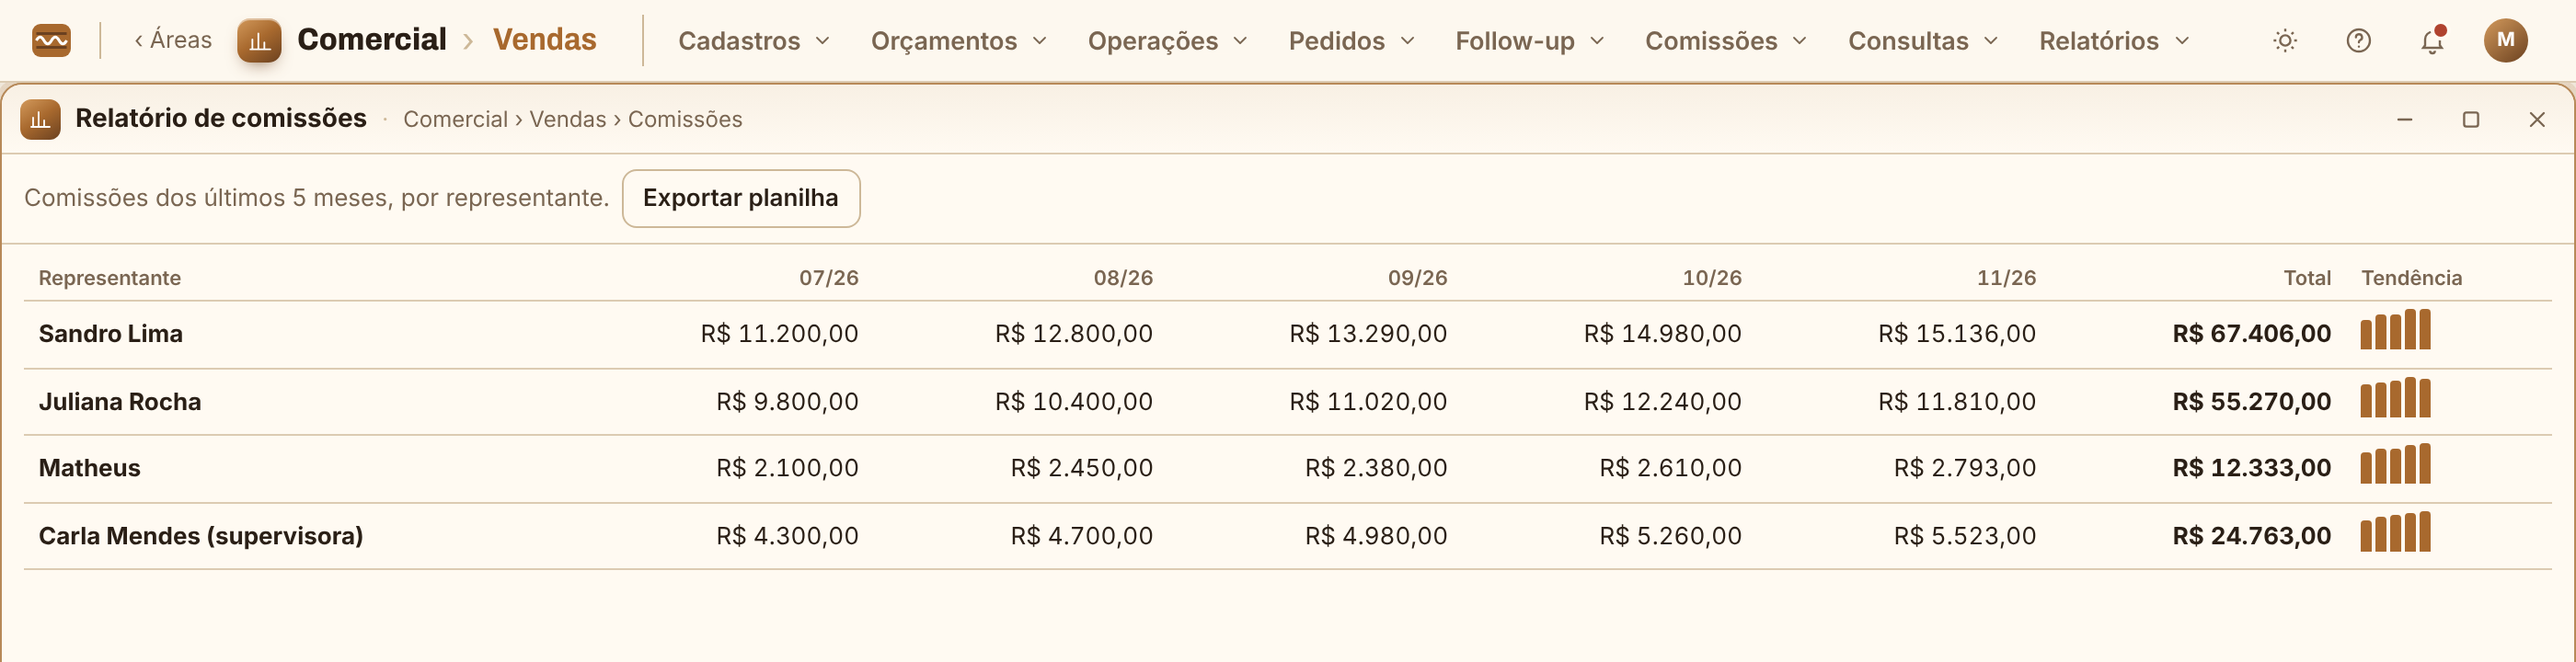
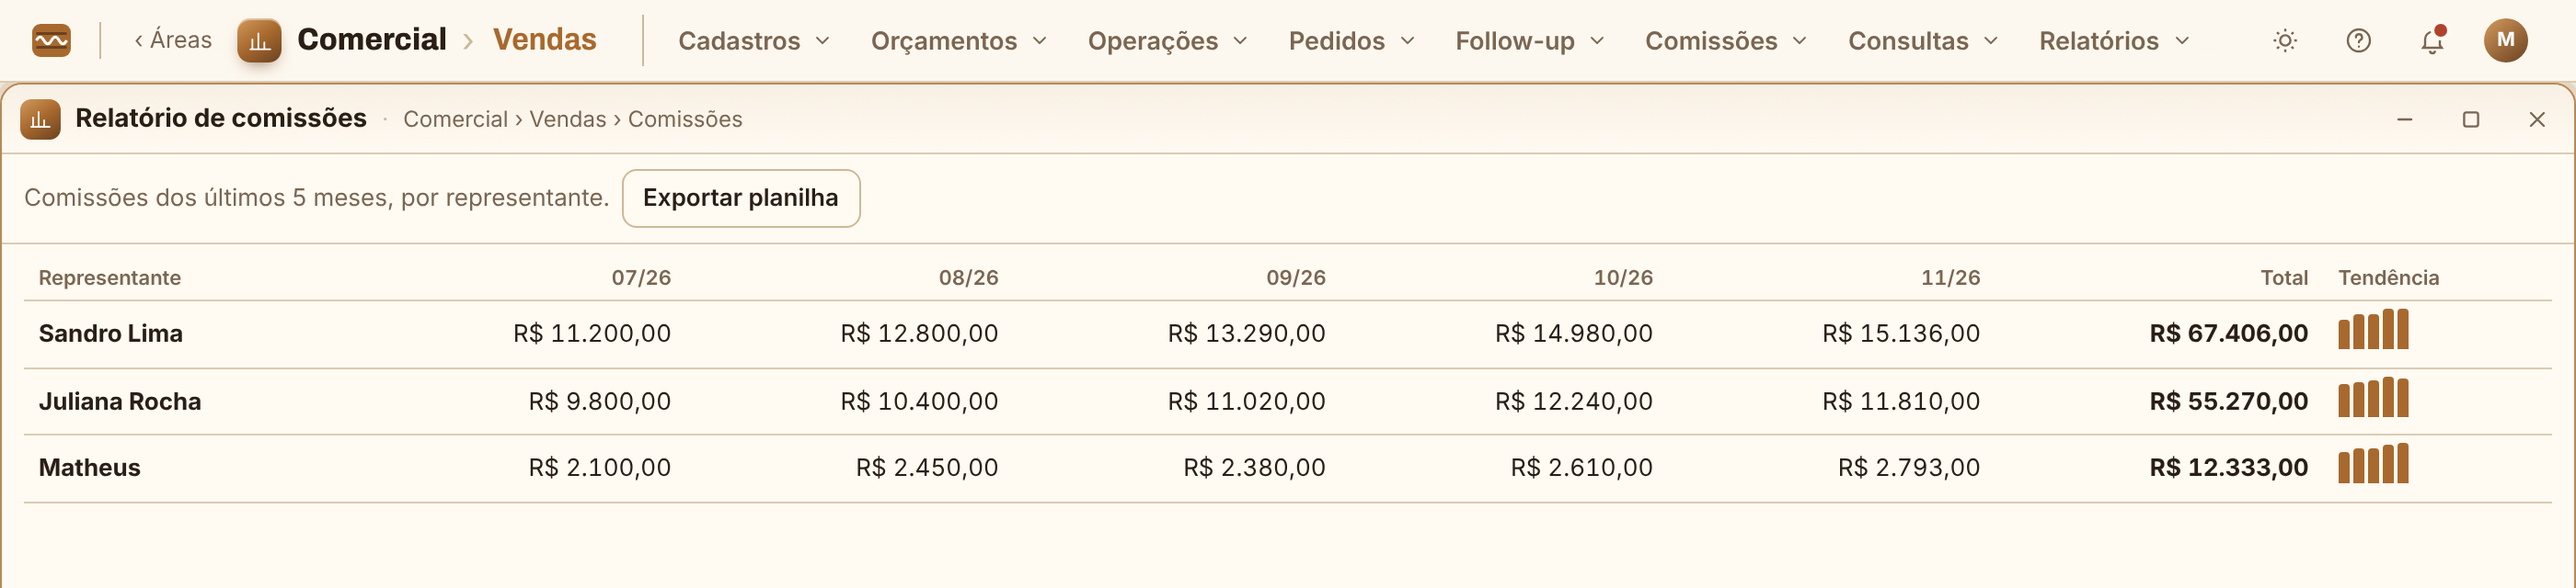
Comissões: supervisão não ganha percentual
Claude-Session: https://claude.ai/code/session_015kL8p4eCaL1huCADCSMStj

diff --git a/prototipo/tela-inicial-e-comercial.html b/prototipo/tela-inicial-e-comercial.html
@@ -2559,7 +2559,7 @@ const TOPICOS = {
     /* Comissões: 7 itens do sistema atual viraram 4. Fica em Vendas (pessoal interno),
        não na área Representantes (que é onde os próprios representantes trabalham). */
     { nome:'Comissões', itens:[
-      { ic:'percent', t:'Regras de comissão', d:'Quanto ganha cada representante e supervisor, inclusive por produto', tela:'comRegras' },
+      { ic:'percent', t:'Regras de comissão', d:'Quanto ganha cada representante, inclusive por cliente e produto', tela:'comRegras' },
       { ic:'doc', t:'Notas de crédito de comissão', d:'Emitir e desfazer notas de crédito', tela:'comNotas' },
       { ic:'cifrao', t:'Acerto de comissões', d:'Fechamento das comissões do período', tela:'comAcerto' },
       { ic:'grafico', t:'Relatório de comissões', d:'Comissões por representante e vendedor', tela:'comRelatorio' },
@@ -3556,14 +3556,12 @@ const REGRAS = [
   { quem:'Juliana Rocha', aplica:'Cliente: Serra Azul', pct:3, base:'Valor sem IPI', quando:'No faturamento', vig:'06/2026 →', exc:true },
   { quem:'Matheus', aplica:'Todos os clientes e produtos', pct:1.5, base:'Valor sem IPI', quando:'No faturamento', vig:'01/2026 →' },
   { quem:'Todos', aplica:'Produto: Chapa divisória', pct:2, base:'Valor sem IPI', quando:'No faturamento', vig:'01/2026 →', exc:true },
-  { quem:'Carla Mendes (supervisora)', aplica:'Sobre a equipe dela', pct:0.8, base:'Valor sem IPI', quando:'No faturamento', vig:'01/2026 →', sup:true },
 ];
 const ACERTO = {
   '2026-11': [
     { rep:'Sandro Lima', fat:412300, rec:388900, com:15556, aj:-420, sit:'conferido', det:[ ['NF 88430','Horizonte','14/11',38900,1556], ['NF 88411','Vale Verde','10/11',0,0], ['Título 88102','Horizonte','05/11',51200,2048] ] },
     { rep:'Juliana Rocha', fat:298700, rec:301500, com:11810, aj:0, sit:'aberto', det:[ ['NF 88402','Serra Azul','08/11',31100,933], ['NF 88399','Passo Firme','07/11',12000,480] ] },
     { rep:'Matheus', fat:186200, rec:0, com:2793, aj:0, sit:'aberto', det:[ ['NF 88430','Horizonte','14/11',38900,584] ] },
-    { rep:'Carla Mendes (supervisora)', fat:897200, rec:690400, com:5523, aj:0, sit:'aberto', det:[] },
   ],
 };
 const NOTAS_COM = [
@@ -3572,7 +3570,7 @@ const NOTAS_COM = [
   { n:'NC-1029', rep:'Sandro Lima', per:'09/2026', valor:13710, sit:'desfeita', data:'04/10/2026', motivo:'Valor errado: refeita na NC-1030' },
   { n:'NC-1030', rep:'Sandro Lima', per:'09/2026', valor:13290, sit:'emitida', data:'06/10/2026' },
 ];
-const HIST_COM = { 'Sandro Lima':[11200,12800,13290,14980,15136], 'Juliana Rocha':[9800,10400,11020,12240,11810], 'Matheus':[2100,2450,2380,2610,2793], 'Carla Mendes (supervisora)':[4300,4700,4980,5260,5523] };
+const HIST_COM = { 'Sandro Lima':[11200,12800,13290,14980,15136], 'Juliana Rocha':[9800,10400,11020,12240,11810], 'Matheus':[2100,2450,2380,2610,2793] };
 const MESES_COM = ['07/26','08/26','09/26','10/26','11/26'];
 
 TELAS.comRegras = (box) => {
@@ -3586,8 +3584,8 @@ TELAS.comRegras = (box) => {
       box.innerHTML = `<div class="cl-ficha editando"><div class="cl-cab"><button class="voltar" type="button" data-volta-regras>‹ Regras</button><div class="cl-nome"><b>${r.quem ? 'Editar regra' : 'Nova regra'}</b><small>Quem recebe, sobre o quê, quanto e quando</small></div>
         <span class="cl-acoes"><button class="btn2" type="button" data-volta-regras>Cancelar</button><button class="go" type="button" data-salva-regra>Salvar</button></span></div>
         <div class="pd-corpo"><section class="cl-bloco"><div class="cl-grade">
-          ${f('Quem recebe', r.quem, { opcoes: ['', ...REPS.map(x => x.nome), 'Carla Mendes (supervisora)', 'Todos'] })}
-          ${f('Vale para', r.aplica.split(':')[0], { opcoes:['Todos os clientes e produtos','Cliente','Produto','Grupo de produtos','Sobre a equipe dela'] })}
+          ${f('Quem recebe', r.quem, { opcoes: ['', ...REPS.map(x => x.nome), 'Todos'] })}
+          ${f('Vale para', r.aplica.split(':')[0], { opcoes:['Todos os clientes e produtos','Cliente','Produto','Grupo de produtos'] })}
           ${f('Qual (cliente/produto)', (r.aplica.split(': ')[1] || ''))}
           ${f('Percentual (%)', r.pct ? r.pct.toLocaleString('pt-BR') : '')}
           ${f('Base de cálculo', r.base, { opcoes:['Valor sem IPI','Valor total da nota','Margem de contribuição'] })}

diff --git a/README.md b/README.md
@@ -559,7 +559,7 @@ do sistema (com IA) respeitando o que cada usuário pode acessar.
   - **Não entram:** Importar pedidos via arquivo EDI (já está em Operações) e Gerar
     entrega a partir de pedido horizonte planejado.
 - **Comissões** (7 itens do sistema atual viraram 4):
-  - **Regras de comissão:** quanto ganha cada representante e supervisor, inclusive por
+  - **Regras de comissão:** quanto ganha cada representante, inclusive por cliente e
     produto (junta "Definir comissão de representante", "Definir comissão do supervisor" e
     "Agente × produtos").
   - **Notas de crédito de comissão:** emitir e desfazer na mesma janela.
@@ -668,8 +668,9 @@ do sistema (com IA) respeitando o que cada usuário pode acessar.
 
 ### Comissões (Comercial › Vendas › Comissões) — primeira versão para aprovar
 - **Regras de comissão:** tabela com quem recebe, vale para (todos / cliente / produto / grupo /
-  equipe do supervisor), %, base (valor sem IPI, total da nota ou margem), quando paga (no
-  recebimento ou no faturamento) e vigência. Exceções e supervisor marcados. A regra mais
+  grupo), %, base (valor sem IPI, total da nota ou margem), quando paga (no recebimento ou
+  no faturamento) e vigência. Exceções marcadas. **Supervisão não ganha comissão** (decidido).
+  A regra mais
   específica vale primeiro: produto › cliente › padrão do representante.
 - **Acerto de comissões:** por período, uma linha por representante (faturado, recebido,
   comissão, ajustes, a pagar, situação Aberto → Conferido → Nota gerada → Pago), com detalhe por
@@ -707,7 +708,7 @@ módulos tiverem suas funcionalidades, faremos uma **revisão geral de integraç
 | Compras ↔ Expedição | — | transportadoras (cadastro único) |
 | Ajuda (chamados) | Suporte › Chamados | print, texto, protocolo |
 | Faturamento (notas do mês) — no futuro Contas a receber (recebimentos) | Vendas › Comissões › Acerto | base de cálculo da comissão |
-| Comissões › Regras | Acerto de comissões | % por representante, cliente, produto, supervisor |
+| Comissões › Regras | Acerto de comissões | % por representante, cliente e produto |
 | Pedidos › Alterar pedido | Comissões | comissão específica de um item |
 | Acerto (fechar período) | Notas de crédito de comissão + Financeiro › Contas a pagar | valor a pagar a cada representante, vencimento dia 15 do mês seguinte |
 | Notas de crédito (desfazer) | Contas a pagar | retira o valor |
